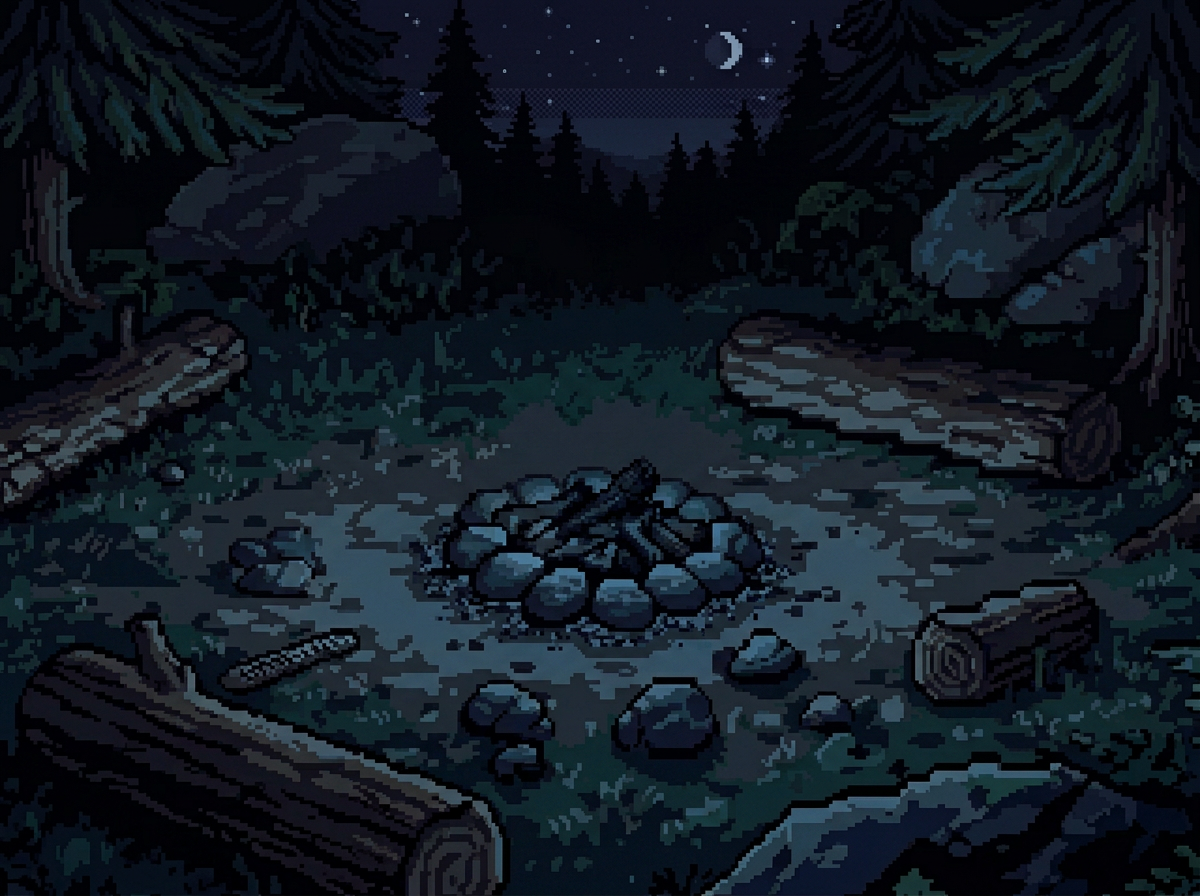
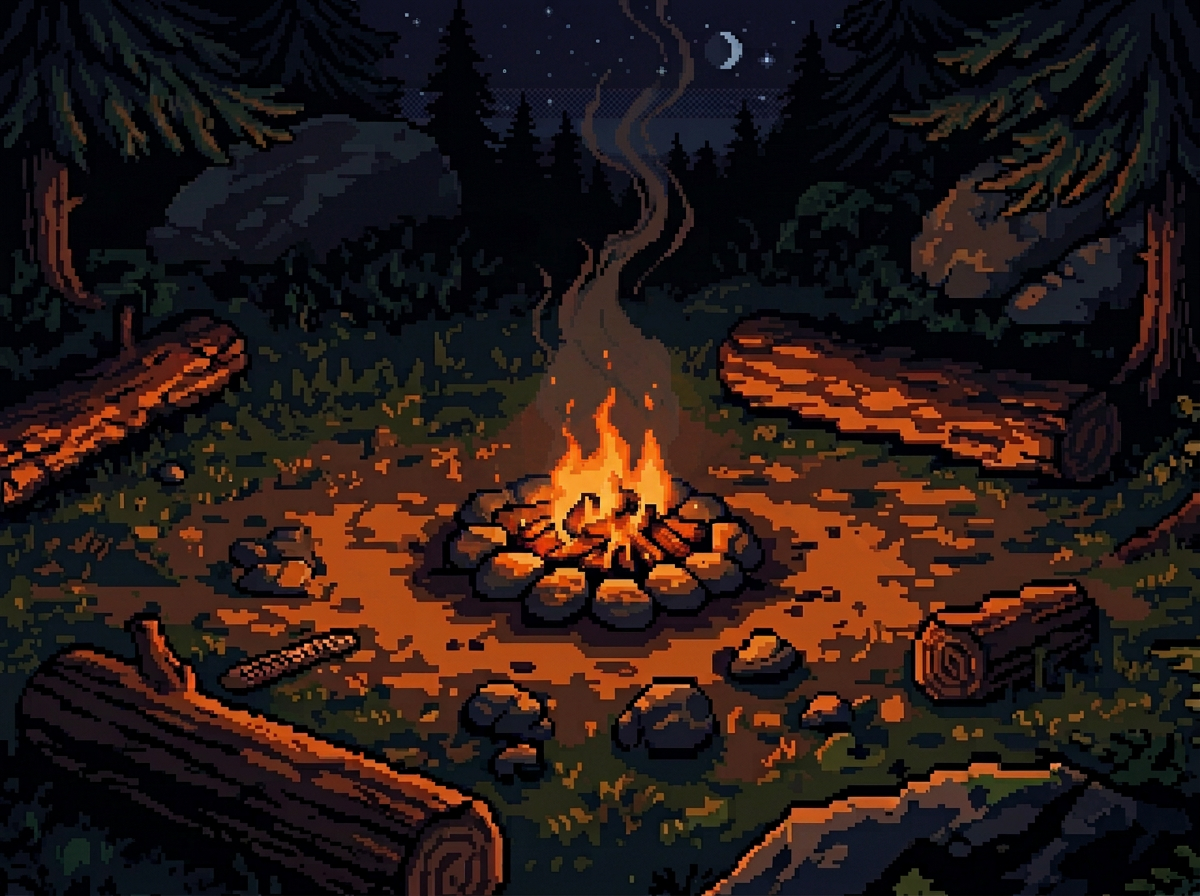
Added Animation of Fire
Added full fire animation between the base phase burning out and the burnt-out phases. Background now starts off with the burnt out fire, starting the fire lights it and it swaps to the base phase fire animation. After 1:30, The animation swaps to the burning out animation and when the timer ends, the fire burns out and is unignited.

diff --git a/css/campfireLobby.css b/css/campfireLobby.css
@@ -75,44 +75,27 @@ body {
 	width: 100vw;
 	height: 100vh;
 
-	background-image: url("../assets/campfireLobbyBase.png");
+	background-image: url("../assets/campfireLobbyBurntOut.png");
+	/* background-image: url("../assets/campfireLobbyBurnoutPhase1.png"); */
+	/* background-image: url("../assets/campfireLobbyBurnoutPhase2.png"); */
+	/* background-image: url("../assets/campfireLobbyBurnoutPhase3.png"); */
 	background-size: cover;
 	background-repeat: no-repeat;
 	background-position: center;
 
-	animation: campfireBgLoop 1s ease-in-out infinite;
+	/* animation: campfireBgLoop1 1s ease-in-out infinite; */
+	/* animation: campfireBgLoop2 1s ease-in-out infinite; */
 }
 
-@keyframes campfireBgLoop {
-	/* 0%,
-	25% {
-		background-image: url("../assets/campfireLobbyBase.png");
-		background-size: cover;
-		background-repeat: no-repeat;
-		background-position: center;
-	}
-	26%,
-	50% {
-		background-image: url("../assets/campfireLobbyBase2.png");
-		background-size: cover;
-		background-repeat: no-repeat;
-		background-position: center;
-	}
-	51%,
-	75% {
-		background-image: url("../assets/campfireLobbyBase3.png");
-		background-size: cover;
-		background-repeat: no-repeat;
-		background-position: center;
-	}
-	76%,
-	100% {
-		background-image: url("../assets/campfireLobbyBase4.png");
-		background-size: cover;
-		background-repeat: no-repeat;
-		background-position: center;
-	} */
+.backgroundAnimationLobby1 {
+	animation: campfireBgLoop1 1s ease-in-out infinite;
+}
 
+.backgroundAnimationLobby2 {
+	animation: campfireBgLoop2 1s ease-in-out infinite;
+}
+
+@keyframes campfireBgLoop1 {
 	0%,
 	33% {
 		background-image: url("../assets/campfireLobbyBase.png");
@@ -130,6 +113,30 @@ body {
 	67%,
 	100% {
 		background-image: url("../assets/campfireLobbyBase3.png");
+		background-size: cover;
+		background-repeat: no-repeat;
+		background-position: center;
+	}
+}
+
+@keyframes campfireBgLoop2 {
+	0%,
+	33% {
+		background-image: url("../assets/campfireLobbyBurnoutPhase1.png");
+		background-size: cover;
+		background-repeat: no-repeat;
+		background-position: center;
+	}
+	34%,
+	66% {
+		background-image: url("../assets/campfireLobbyBurnoutPhase2.png");
+		background-size: cover;
+		background-repeat: no-repeat;
+		background-position: center;
+	}
+	67%,
+	100% {
+		background-image: url("../assets/campfireLobbyBurnoutPhase3.png");
 		background-size: cover;
 		background-repeat: no-repeat;
 		background-position: center;

diff --git a/js/campfireLobby.js b/js/campfireLobby.js
@@ -42,6 +42,8 @@
 // 	}
 // }
 
+const backgroundImageANimation = document.querySelector("body");
+
 const START_MINUTES = 3;
 const REFRESH_MS = 1000;
 
@@ -82,6 +84,13 @@ function startFire() {
 
 	timerInterval = setInterval(updateTimer, REFRESH_MS);
 
+	backgroundImageANimation.classList.add("backgroundAnimationLobby1");
+
+	animationTimeout = setTimeout(() => {
+		backgroundImageANimation.classList.remove("backgroundAnimationLobby1");
+		backgroundImageANimation.classList.add("backgroundAnimationLobby2");
+	}, 90000);
+
 	startBtn.style.display = "none";
 	leaveBtn.style.display = "flex";
 	console.log("Fire Started");
@@ -106,6 +115,8 @@ function updateTimer() {
 		timerInterval = null;
 
 		timerDisplay.innerHTML = "00:00";
+
+		backgroundImageANimation.classList.remove("backgroundAnimationLobby2");
 
 		console.log("The fire burnt out!!");
 	}
